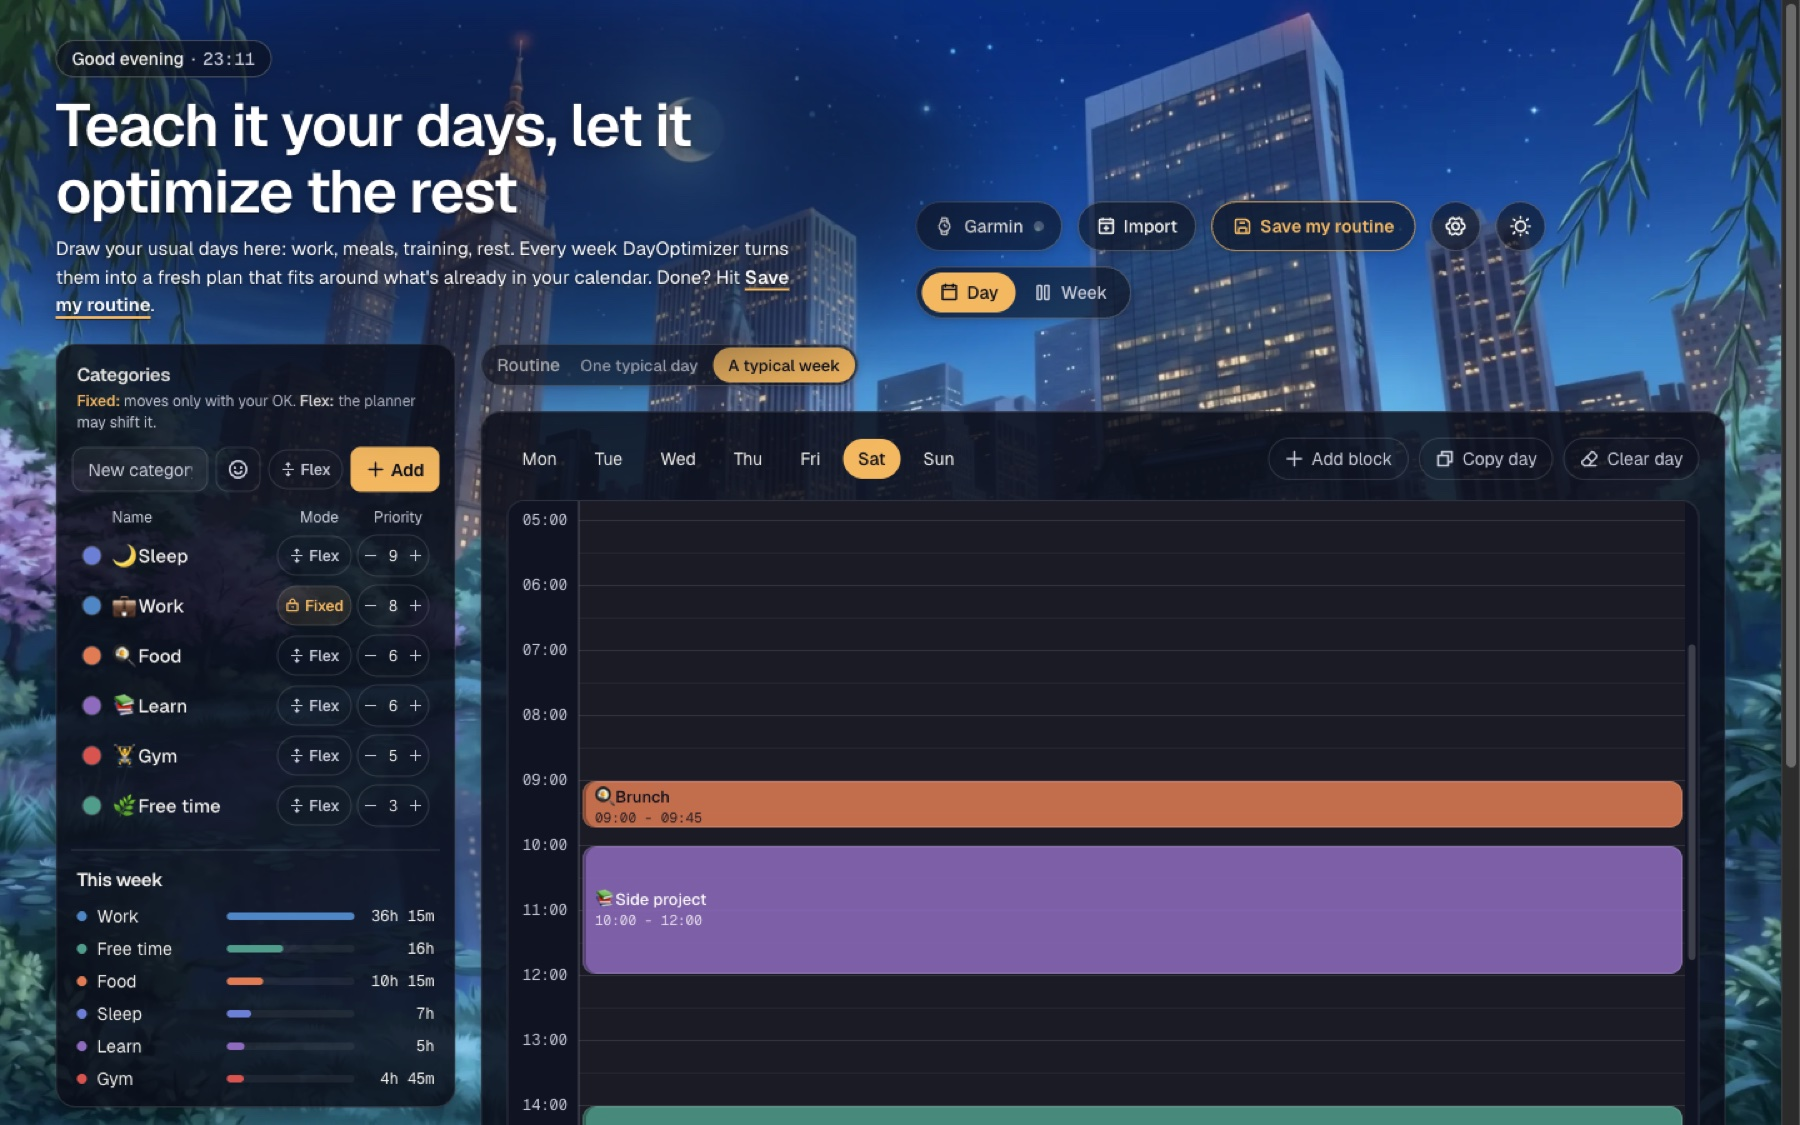
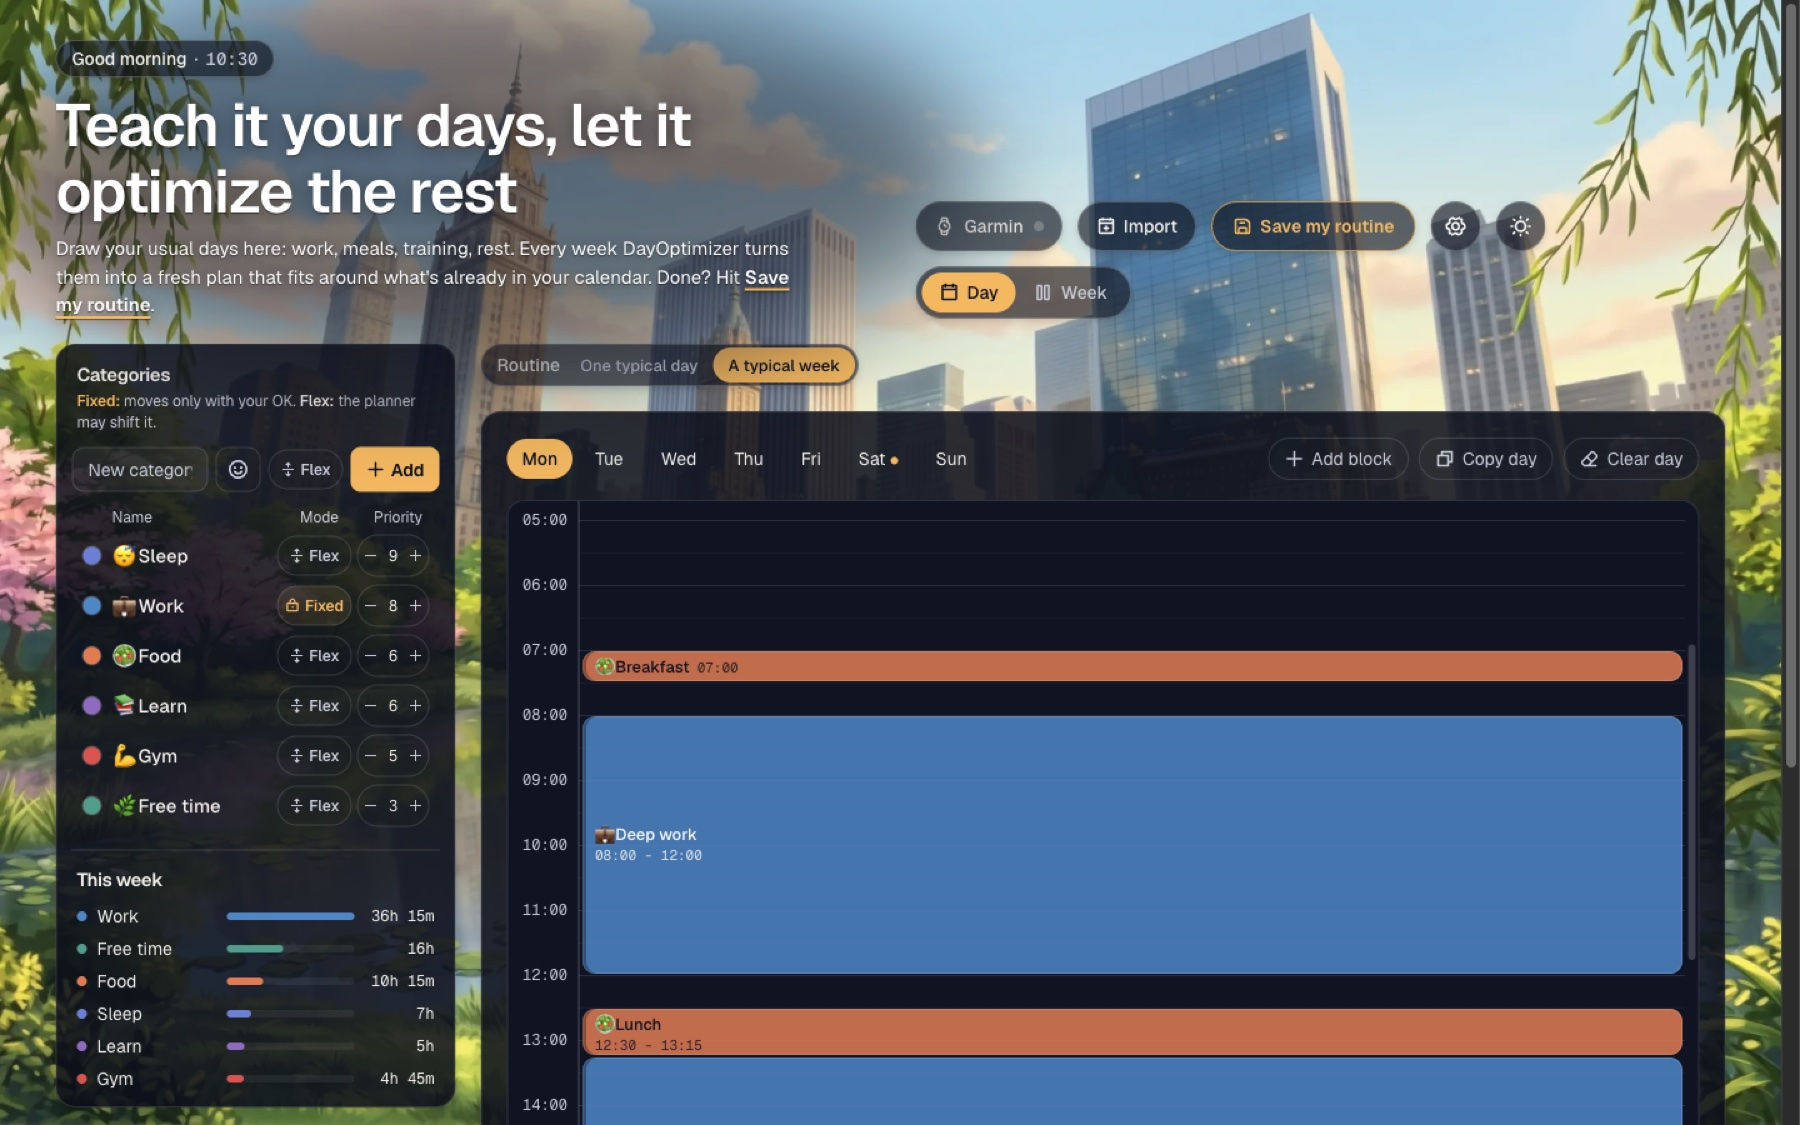
docs(readme): workflow diagram, daytime screenshots with clearer emoji

diff --git a/README.md b/README.md
@@ -45,6 +45,41 @@ and it lays out every week around what is already in your calendar.
   </tr>
 </table>
 
+## How it works
+
+```mermaid
+flowchart LR
+    subgraph once["1 · Once"]
+        S["dayoptimizer setup<br/>draw your week,<br/>categories, notes"] --> C[("config.local.yaml")]
+    end
+
+    subgraph when["2 · When to plan"]
+        T1["dayoptimizer<br/>(today)"]
+        T2["dayoptimizer #quot;dentist at 10#quot;<br/>preview, then your OK"]
+        T3["Background agent (launchd)<br/>new events, sleep, stress"]
+    end
+
+    subgraph plan["3 · Plan"]
+        IN["Routine + notes<br/>+ Apple Calendar events<br/>+ Garmin (optional)"] --> M{"Claude, else<br/>local Ollama"}
+        M -- "proposed days" --> V["Code checks:<br/>overlaps, categories,<br/>note rules"]
+        V -- "errors, max 3 rounds" --> M
+        IN -. "no model" .-> R["Rule engine<br/>places the routine"]
+    end
+
+    subgraph write["4 · Calendar"]
+        F["Flexible blocks<br/>written + notification"]
+        X["Fixed events<br/>moved only after<br/>your approval"]
+    end
+
+    C --> IN
+    T1 & T2 & T3 --> IN
+    V -- "valid plan" --> F & X
+    R --> F & X
+```
+
+A replan replaces only blocks marked "Planned by DayOptimizer". Your own
+events are never deleted.
+
 ## Status
 
 <details>
